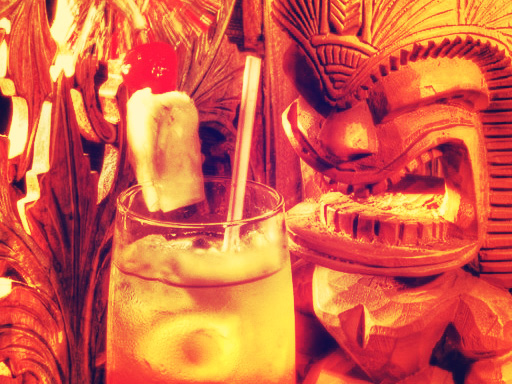
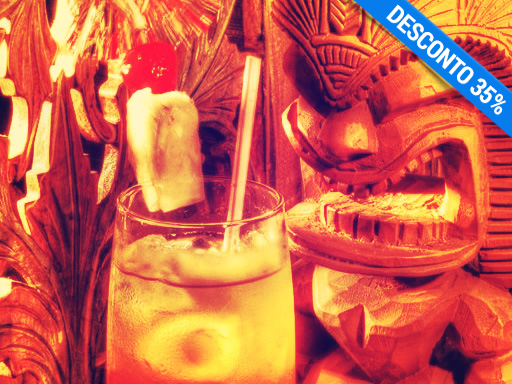
Atualizando o preço do salto duplo

Changed region(s): [[0.6562, 0.0, 1.0, 0.375]]

diff --git a/src/views/html/detail-salto-duplo-a.html b/src/views/html/detail-salto-duplo-a.html
@@ -107,7 +107,7 @@
                 <div class="price"></div>
                 <dl-button-pag-seguro partner="CENTRO_GAUCHO_PARAQUEDISMO"
                                       description="Salto duplo - Novo Hamburgo"
-                                      amount="690.00">
+                                      amount="490.00">
                 </dl-button-pag-seguro>
 
                 <!--#################################################################################################-->
@@ -132,10 +132,10 @@
                     que vai te ensinar como se portar durante o salto.
                     <br>
                     Já no avião, uma subida a 10000 pés (ou três mil metros). Durante a ascensão,
-                    fique a vontade para tirar mais dúvidas com o instrutor ou cameraman. Sim! O cameraman vai registrar cada detalhe da aventura.
+                    fique a vontade para tirar mais dúvidas com o instrutor.
                     <br>
                     Agora é só um pequeno passo para você ter a experiência mais incrível da sua vida,
-                    com até um minuto inteiro de queda livre a 180kmph.
+                    com até um minuto de queda livre a 180kmph.
                     <br>
                     Quando o paraquedas é aberto pelo instrutor, as coisas desaceleram um pouco.
                     Você pode curtir, aproximadamente, mais 6 minutos de descida, até enfim tocar o solo em um pouso suave.
@@ -166,8 +166,6 @@
                     <item>Equipamentos de segurança</item>
                     <item>Óculos</item>
                     <item>Briefing sobre a atividade</item>
-                    <item>Camera man</item>
-                    <item>DVD com filmagens e fotos (entregue ao término do salto)</item>
                     <item>Certificado de salto duplo</item>
                 </dl-list>
 
@@ -175,7 +173,7 @@
 
                 <dl-list iconHeadingClass="fa-clock-o" iconItemClass="fa-angle-right">
                     <heading>Duração</heading>
-                    <item>Aproximadamente uma hora e meia (20 minutos de briefing; 30 minutos de voo até o ponto de salto; 40 segundos de queda livre; 6 minutos de descida de paraquedas; 35 minutos para edição das imagens)</item>
+                    <item>Aproximadamente uma hora (20 minutos de briefing; 30 minutos de voo até o ponto de salto; 40 segundos de queda livre; 6 minutos de descida de paraquedas</item>
                 </dl-list>
 
                 <hr>

diff --git a/src/views/html/detail-salto-duplo-b.html b/src/views/html/detail-salto-duplo-b.html
@@ -107,7 +107,7 @@
                 <div class="price"></div>
                 <dl-button-pag-seguro partner="CENTRO_GAUCHO_PARAQUEDISMO"
                                       description="Salto duplo - Novo Hamburgo"
-                                      amount="690.00">
+                                      amount="490.00">
                 </dl-button-pag-seguro>
 
                 <!--#################################################################################################-->
@@ -132,10 +132,10 @@
                     que vai te ensinar como se portar durante o salto.
                     <br>
                     Já no avião, uma subida a 10000 pés (ou três mil metros). Durante a ascensão,
-                    fique a vontade para tirar mais dúvidas com o instrutor ou cameraman. Sim! O cameraman vai registrar cada detalhe da aventura.
+                    fique a vontade para tirar mais dúvidas com o instrutor.
                     <br>
                     Agora é só um pequeno passo para você ter a experiência mais incrível da sua vida,
-                    com até um minuto inteiro de queda livre a 180kmph.
+                    com até um minuto de queda livre a 180kmph.
                     <br>
                     Quando o paraquedas é aberto pelo instrutor, as coisas desaceleram um pouco.
                     Você pode curtir, aproximadamente, mais 6 minutos de descida, até enfim tocar o solo em um pouso suave.
@@ -166,8 +166,6 @@
                     <item>Equipamentos de segurança</item>
                     <item>Óculos</item>
                     <item>Briefing sobre a atividade</item>
-                    <item>Camera man</item>
-                    <item>DVD com filmagens e fotos (entregue ao término do salto)</item>
                     <item>Certificado de salto duplo</item>
                 </dl-list>
 
@@ -175,7 +173,7 @@
 
                 <dl-list iconHeadingClass="fa-clock-o" iconItemClass="fa-angle-right">
                     <heading>Duração</heading>
-                    <item>Aproximadamente uma hora e meia (20 minutos de briefing; 30 minutos de voo até o ponto de salto; 40 segundos de queda livre; 6 minutos de descida de paraquedas; 35 minutos para edição das imagens)</item>
+                    <item>Aproximadamente uma hora (20 minutos de briefing; 30 minutos de voo até o ponto de salto; 40 segundos de queda livre; 6 minutos de descida de paraquedas</item>
                 </dl-list>
 
                 <hr>

diff --git a/src/views/html/index.html b/src/views/html/index.html
@@ -116,7 +116,7 @@
 
         <dl-product-card image="../../images/products/cards/jantar-havaiano.jpg"
                          event="JANTAR HAVAIANO"
-                         price="R$ 70,00"
+                         price="R$ 75,00"
                          location="Porto Alegre"
                          url="detail-jantar-havaiano.html">
         </dl-product-card>
@@ -125,7 +125,7 @@
 
         <dl-product-card image="../../images/products/cards/salto-duplo.jpg"
                          event="SALTO DUPLO"
-                         price="R$ 690,00"
+                         price="R$ 490,00"
                          location="Novo Hamburgo"
                          url="detail-salto-duplo-a.html,detail-salto-duplo-b.html">
         </dl-product-card>

diff --git a/src/views/html/experiences.html b/src/views/html/experiences.html
@@ -112,7 +112,7 @@
 
         <dl-product-card image="../../images/products/cards/salto-duplo.jpg"
                          event="SALTO DUPLO"
-                         price="R$ 690"
+                         price="R$ 490"
                          location="Novo Hamburgo"
                          url="detail-salto-duplo-a.html,detail-salto-duplo-b.html">
         </dl-product-card>
